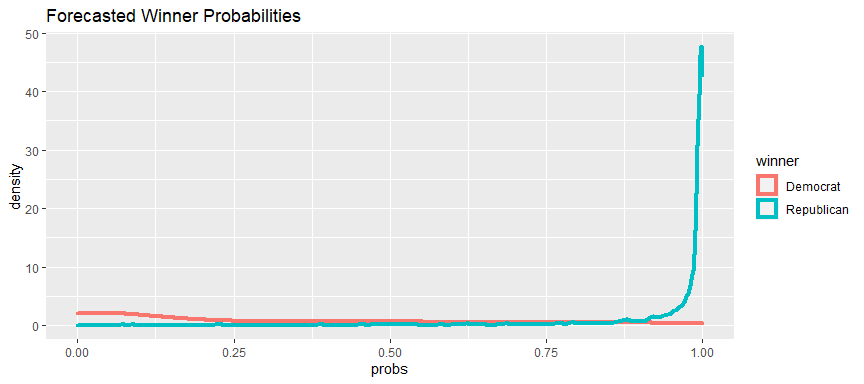
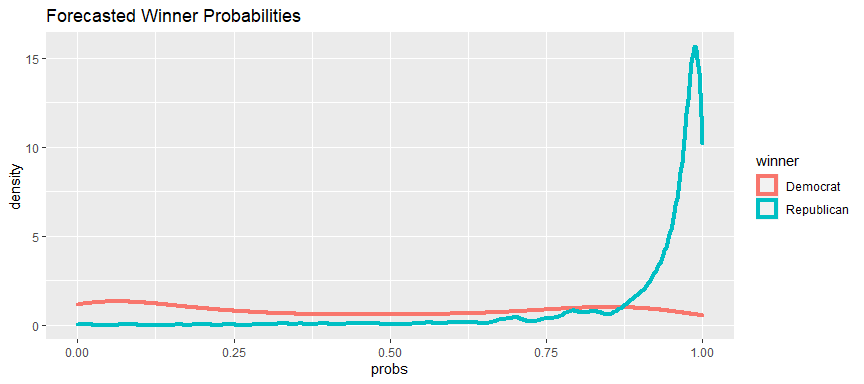
finished logistic regression

diff --git a/Abizer.md b/Abizer.md
@@ -3,178 +3,65 @@ Team Project 2
 Abizer and Luis
 Day 17
 
-``` r
-> key <- read.csv("https://raw.githubusercontent.com/mgelman/data/master/county_facts_dictionary.csv")
-> key
-   column_name
-1    PST045214
-2    PST040210
-3    PST120214
-4    POP010210
-5    AGE135214
-6    AGE295214
-7    AGE775214
-8    SEX255214
-9    RHI125214
-10   RHI225214
-11   RHI325214
-12   RHI425214
-13   RHI525214
-14   RHI625214
-15   RHI725214
-16   RHI825214
-17   POP715213
-18   POP645213
-19   POP815213
-20   EDU635213
-21   EDU685213
-22   VET605213
-23   LFE305213
-24   HSG010214
-25   HSG445213
-26   HSG096213
-27   HSG495213
-28   HSD410213
-29   HSD310213
-30   INC910213
-31   INC110213
-32   PVY020213
-33   BZA010213
-34   BZA110213
-35   BZA115213
-36   NES010213
-37   SBO001207
-38   SBO315207
-39   SBO115207
-40   SBO215207
-41   SBO515207
-42   SBO415207
-43   SBO015207
-44   MAN450207
-45   WTN220207
-46   RTN130207
-47   RTN131207
-48   AFN120207
-49   BPS030214
-50   LND110210
-51   POP060210
-                                                              description
-1                                               Population, 2014 estimate
-2                               Population, 2010 (April 1) estimates base
-3              Population, percent change - April 1, 2010 to July 1, 2014
-4                                                        Population, 2010
-5                                    Persons under 5 years, percent, 2014
-6                                   Persons under 18 years, percent, 2014
-7                                Persons 65 years and over, percent, 2014
-8                                           Female persons, percent, 2014
-9                                              White alone, percent, 2014
-10                         Black or African American alone, percent, 2014
-11                 American Indian and Alaska Native alone, percent, 2014
-12                                             Asian alone, percent, 2014
-13        Native Hawaiian and Other Pacific Islander alone, percent, 2014
-14                                       Two or More Races, percent, 2014
-15                                      Hispanic or Latino, percent, 2014
-16                     White alone, not Hispanic or Latino, percent, 2014
-17                 Living in same house 1 year & over, percent, 2009-2013
-18                               Foreign born persons, percent, 2009-2013
-19      Language other than English spoken at home, pct age 5+, 2009-2013
-20  High school graduate or higher, percent of persons age 25+, 2009-2013
-21     Bachelor's degree or higher, percent of persons age 25+, 2009-2013
-22                                                    Veterans, 2009-2013
-23         Mean travel time to work (minutes), workers age 16+, 2009-2013
-24                                                    Housing units, 2014
-25                                          Homeownership rate, 2009-2013
-26             Housing units in multi-unit structures, percent, 2009-2013
-27                Median value of owner-occupied housing units, 2009-2013
-28                                                  Households, 2009-2013
-29                                       Persons per household, 2009-2013
-30    Per capita money income in past 12 months (2013 dollars), 2009-2013
-31                                     Median household income, 2009-2013
-32                        Persons below poverty level, percent, 2009-2013
-33                                   Private nonfarm establishments, 2013
-34                                      Private nonfarm employment,  2013
-35                  Private nonfarm employment, percent change, 2012-2013
-36                                       Nonemployer establishments, 2013
-37                                            Total number of firms, 2007
-38                                       Black-owned firms, percent, 2007
-39          American Indian- and Alaska Native-owned firms, percent, 2007
-40                                       Asian-owned firms, percent, 2007
-41 Native Hawaiian- and Other Pacific Islander-owned firms, percent, 2007
-42                                    Hispanic-owned firms, percent, 2007
-43                                       Women-owned firms, percent, 2007
-44                                 Manufacturers shipments, 2007 ($1,000)
-45                               Merchant wholesaler sales, 2007 ($1,000)
-46                                            Retail sales, 2007 ($1,000)
-47                                          Retail sales per capita, 2007
-48                   Accommodation and food services sales, 2007 ($1,000)
-49                                                 Building permits, 2014
-50                                        Land area in square miles, 2010
-51                                       Population per square mile, 2010
-```
+    winner ~ RTN130207 + INC910213 + HSG096213 + HSG495213 + POP815213 + 
+        EDU635213 + EDU685213 + POP715213 + AGE295214 + AGE775214 + 
+        PST120214
 
-``` r
-> train <- read_csv("https://raw.githubusercontent.com/mgelman/data/master/train.csv")
-> test <- read_csv("https://raw.githubusercontent.com/mgelman/data/master/test_No_Y.csv")
-```
 
-``` r
-> train <- train %>% mutate(winner = recode_factor(winner16, Dem = "Democrat", Rep = "Republican"))
-```
+    Call:
+    glm(formula = myform, family = binomial, data = train)
 
-``` r
-> xvars <- str_c(names(train)[1:51], collapse="+")
-> myform <- as.formula(str_c("winner ~ ", xvars))
-> myform
-winner ~ PST045214 + PST040210 + PST120214 + POP010210 + AGE135214 + 
-    AGE295214 + AGE775214 + SEX255214 + RHI125214 + RHI225214 + 
-    RHI325214 + RHI425214 + RHI525214 + RHI625214 + RHI725214 + 
-    RHI825214 + POP715213 + POP645213 + POP815213 + EDU635213 + 
-    EDU685213 + VET605213 + LFE305213 + HSG010214 + HSG445213 + 
-    HSG096213 + HSG495213 + HSD410213 + HSD310213 + INC910213 + 
-    INC110213 + PVY020213 + BZA010213 + BZA110213 + BZA115213 + 
-    NES010213 + SBO001207 + SBO315207 + SBO115207 + SBO215207 + 
-    SBO515207 + SBO415207 + SBO015207 + MAN450207 + WTN220207 + 
-    RTN130207 + RTN131207 + AFN120207 + BPS030214 + LND110210 + 
-    POP060210
-```
+    Deviance Residuals: 
+        Min       1Q   Median       3Q      Max  
+    -3.2543   0.1038   0.2097   0.3633   3.5090  
 
-``` r
-> winner.glm <- glm(myform, data = train, family = binomial)
-Warning: glm.fit: fitted probabilities numerically 0 or 1 occurred
-> 
-> train <- train %>% mutate(probs = predict(winner.glm, type = "response"),prediction = ifelse(probs >= 0.05,"Republican","Democrat"))
-> 
-> test <- test %>% mutate(probs = predict(winner.glm, newdata = test, type = "response"),prediction = ifelse(probs >= 0.05,"Republican","Democrat"))
-> 
-> train %>% summarize(accuracy = mean(winner == prediction), precision = sum(winner == "Republican" & prediction == "Republican")/sum(prediction == "Republican"), recall = sum(winner == "Republican" & prediction == "Republican")/sum(winner == "Republican"))
-# A tibble: 1 × 3
-  accuracy precision recall
-     <dbl>     <dbl>  <dbl>
-1    0.901     0.897  0.999
-> 
-> ggplot(train,aes(x = probs, color = winner)) + geom_density(size = 1.5) + ggtitle("Forecasted Winner Probabilities ")
-```
+    Coefficients:
+                  Estimate Std. Error z value Pr(>|z|)    
+    (Intercept)  3.677e+00  2.400e+00   1.532 0.125438    
+    RTN130207   -1.120e-07  3.028e-08  -3.699 0.000216 ***
+    INC910213    3.043e-04  3.339e-05   9.114  < 2e-16 ***
+    HSG096213   -9.933e-02  1.355e-02  -7.329 2.32e-13 ***
+    HSG495213   -1.336e-05  1.917e-06  -6.971 3.16e-12 ***
+    POP815213   -4.140e-02  7.666e-03  -5.400 6.66e-08 ***
+    EDU635213    6.898e-02  1.896e-02   3.638 0.000275 ***
+    EDU685213   -1.938e-01  1.920e-02 -10.091  < 2e-16 ***
+    POP715213   -1.490e-01  2.348e-02  -6.347 2.20e-10 ***
+    AGE295214    1.413e-01  3.317e-02   4.260 2.04e-05 ***
+    AGE775214    1.709e-01  3.277e-02   5.215 1.84e-07 ***
+    PST120214    1.831e-01  2.849e-02   6.426 1.31e-10 ***
+    ---
+    Signif. codes:  0 '***' 0.001 '**' 0.01 '*' 0.05 '.' 0.1 ' ' 1
+
+    (Dispersion parameter for binomial family taken to be 1)
+
+        Null deviance: 2120.3  on 2488  degrees of freedom
+    Residual deviance: 1126.6  on 2477  degrees of freedom
+    AIC: 1150.6
+
+    Number of Fisher Scoring iterations: 6
+    # A tibble: 1 × 3
+      accuracy precision recall
+         <dbl>     <dbl>  <dbl>
+    1    0.878     0.876  0.998
 
 ![](Abizer_files/figure-gfm/unnamed-chunk-5-1.png)<!-- -->
 
-``` r
-> preds_obj1 <- prediction(train$probs, train$winner, label.ordering=c("Democrat","Republican"))
-> perf_obj1 <- performance(preds_obj1, "tpr","fpr")
-> perf_df1 <- data_frame(fpr=unlist(perf_obj1@x.values),
-+                        tpr= unlist(perf_obj1@y.values),
-+                        threshold=unlist(perf_obj1@alpha.values), 
-+                        model="train")
-Warning: `data_frame()` was deprecated in tibble 1.1.0.
-Please use `tibble()` instead.
-This warning is displayed once every 8 hours.
-Call `lifecycle::last_lifecycle_warnings()` to see where this warning was generated.
-```
+    Warning: `data_frame()` was deprecated in tibble 1.1.0.
+    Please use `tibble()` instead.
+    This warning is displayed once every 8 hours.
+    Call `lifecycle::last_lifecycle_warnings()` to see where this warning was generated.
 
-Significant variables = LND110210 0.014811 *, AFN120207 0.067364 .  
-BPS030214 0.066844 .  
-RTN130207 0.044782 * SBO415207 0.060036 . NES010213 0.090196 . HSD310213
-0.001863 \*\* INC910213 0.043344 \*  
-HSG096213 0.020870 \*  
-HSG495213 1.95e-08 *** POP815213 0.004269 ** EDU635213 0.001348 **
-EDU685213 0.000545 *** POP715213 0.000874 *** AGE295214 0.001854 **
-AGE775214 3.72e-05 *** PST120214 0.007898 **
+![](Abizer_files/figure-gfm/unnamed-chunk-6-1.png)<!-- -->
+
+    [1] 0.1221374
+
+# K-nn
+
+train_knn \<- knn(train2\[, -1\], test2, train2$winner\[train_index\],
+k=10)
+
+train4 \<- data_frame( y=train2\[-train_index\],prediction = train_knn)
+%\>% summarize(accuracy = mean(prediction == y), precision =
+sum(prediction == “Default” & y == “Default”)/sum(prediction ==
+“Default”), recall = sum(prediction == “Default” & y == “Default”)/sum(y
+== “Default”), ) \`\`\`
